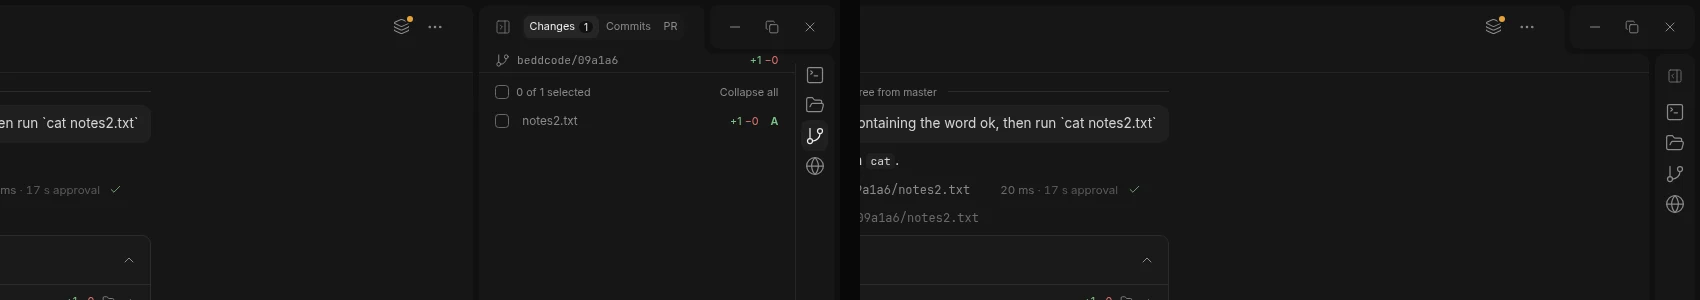
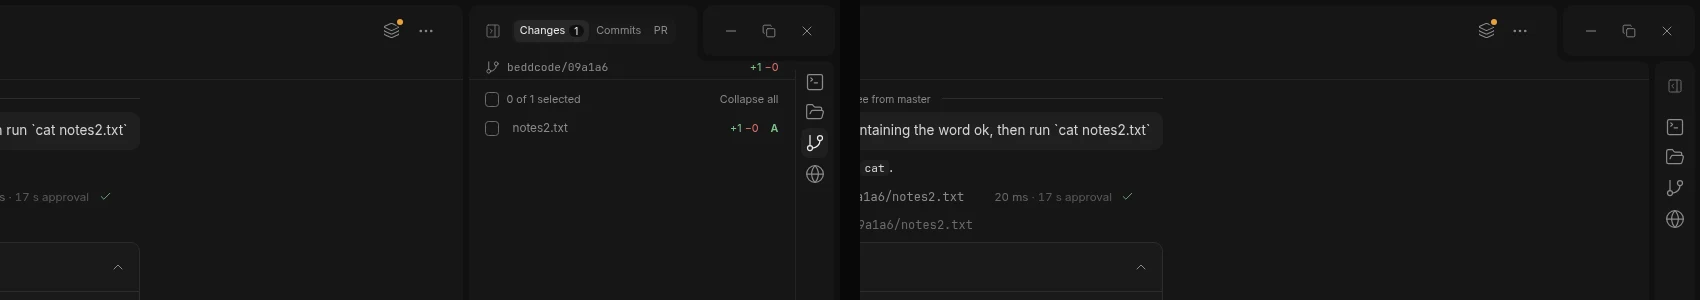
Header row and window-button card get breathing room
The header row is 56px (x ui-scale) instead of 48, so every header control
clears its pane's top edge by at least 9px (the Git tab pill 11.7px above
and below, the pane toggle 10px) while the header line still aligns across
the sidebar, thread and right pane. The window buttons' card follows the row
height and pads its buttons 10px on every side. The open pane's header row
now ends 12px short of the notch edge (the Git tabs sit 21.9px clear); the
right pane minimum is 366px with the card so the tabs keep full labels.

diff --git a/apps/web/src/ui/app.css b/apps/web/src/ui/app.css
@@ -3492,9 +3492,9 @@ button.tcall-row:hover .tcall-chevron,
   padding-top: calc(var(--notch-h) + (var(--rail-btn-h) - 20px) / 2);
   --rail-line-top: calc(var(--notch-h) + var(--radius-panel));
 }
-/* The open pane's header row (toggle, tabs or title) ends a gutter before the card. */
+/* The open pane's header row (toggle, tabs or title) ends 12px short of the notch's edge. */
 :root:has(.window-island) .right.has-pane .side-pane {
-  --island-reach: calc(var(--island-w) + 2 * var(--gap) - var(--rail-w));
+  --island-reach: calc(var(--island-w) + 2 * var(--gap) + 12px - var(--rail-w));
 }
 :root:has(.window-island) .right.has-pane .side-pane .pane-head {
   padding-right: max(var(--pane-pad-x), var(--island-reach));

diff --git a/apps/web/src/ui/tokens.css b/apps/web/src/ui/tokens.css
@@ -55,7 +55,7 @@
   --gap: calc(6px * var(--ui-scale));
   /* Pane alignment: every column's header row is this tall, its titles and icons centred on one
      line; header text starts this far in; the last row sits this far above the bottom edge. */
-  --pane-head: calc(48px * var(--ui-scale));
+  --pane-head: calc(56px * var(--ui-scale));
   --pane-pad-x: calc(18px * var(--ui-scale));
   --pane-inset: calc(8px * var(--ui-scale));
   --head-line: calc(20px * var(--ui-scale));

diff --git a/apps/web/src/features/shell/AppShell.tsx b/apps/web/src/features/shell/AppShell.tsx
@@ -141,7 +141,7 @@ export function AppShell() {
           onResize={onRightResize}
           defaultSize="30%"
           // The window buttons' card takes the end of an open pane's header row; the tabs still fit.
-          minSize={appWindowControls() ? '350px' : '280px'}
+          minSize={appWindowControls() ? '366px' : '280px'}
           maxSize="75%"
           groupResizeBehavior="preserve-pixel-size"
         >
